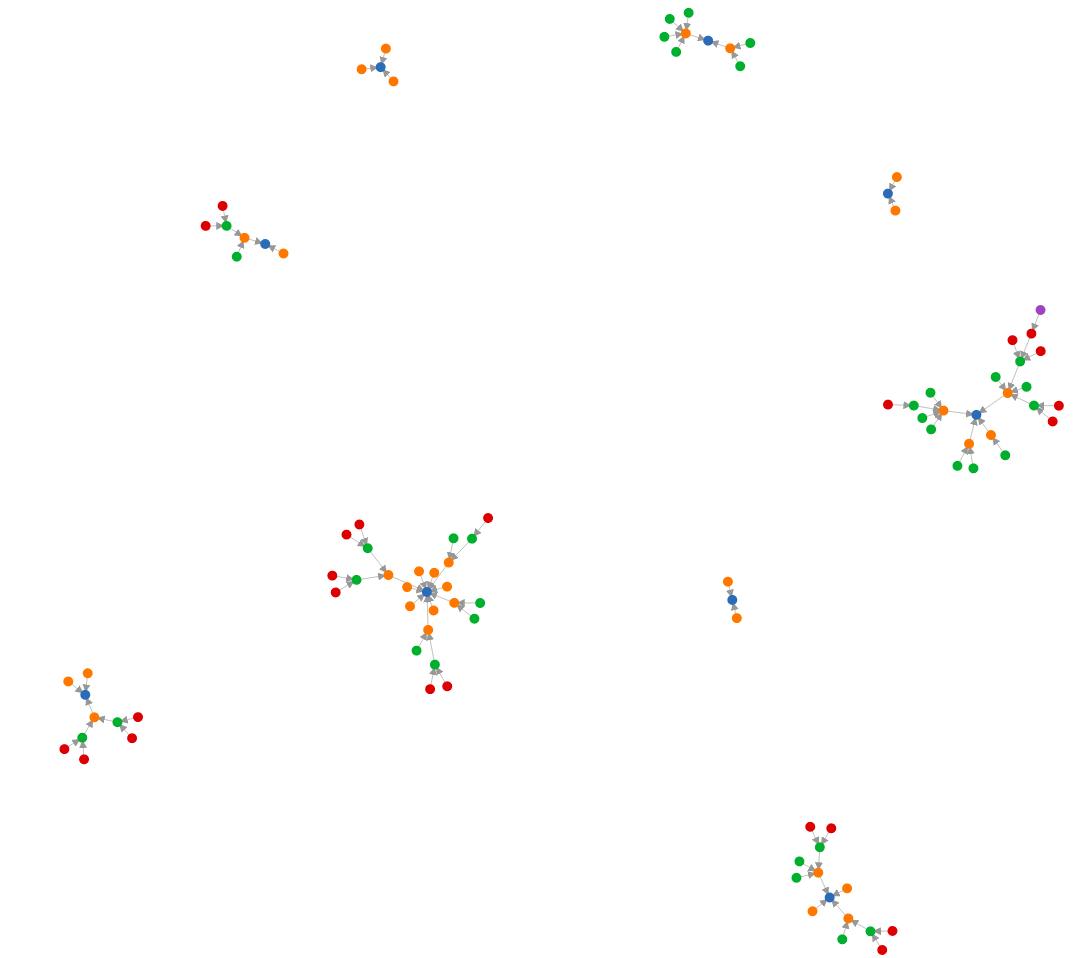
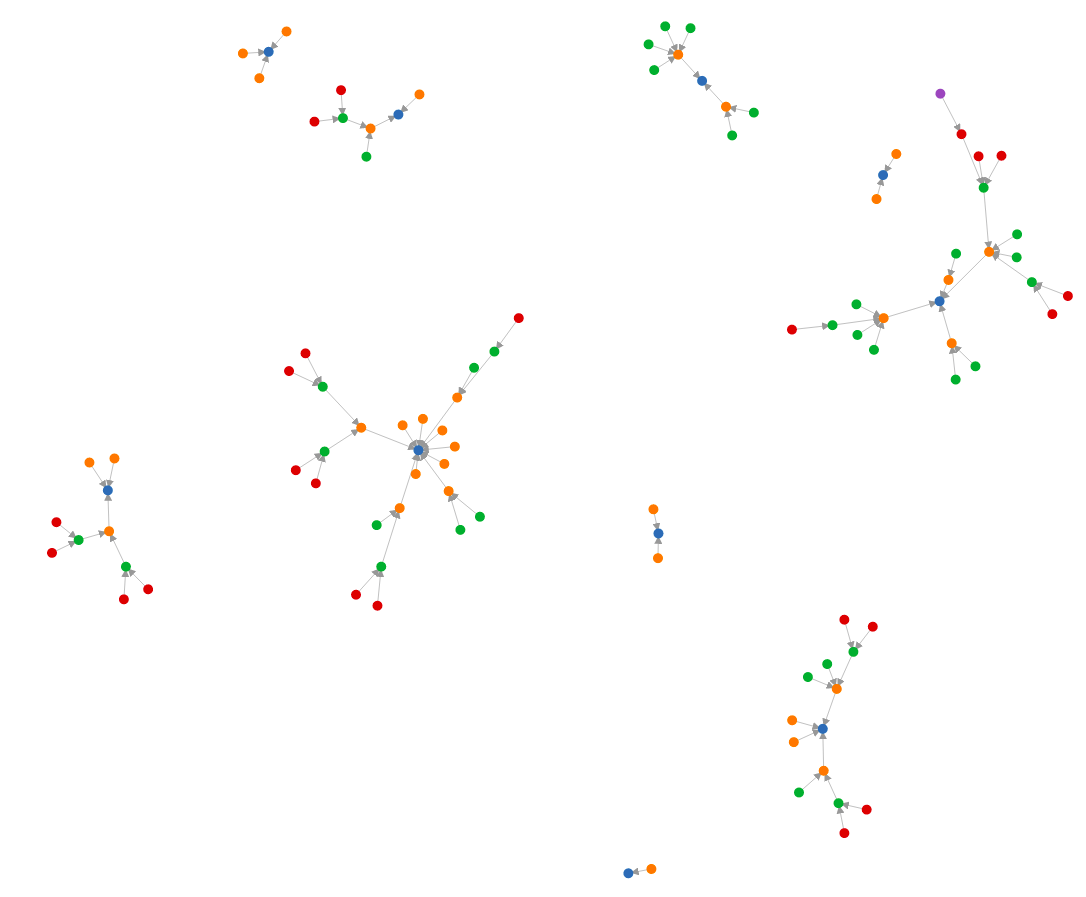
slightly improved strength

diff --git a/index.html b/index.html
@@ -40,7 +40,7 @@
         .style('stroke','none');
 
     var simulation = d3.forceSimulation()
-        .force("link", d3.forceLink().id(function (d) {return d.id;}).distance(15).strength(1))
+        .force("link", d3.forceLink().id(function (d) {return d.id;}).distance(15).strength(0.3))
         .force("charge", d3.forceManyBody())
         .force("center", d3.forceCenter(width / 2, height / 2));
 
